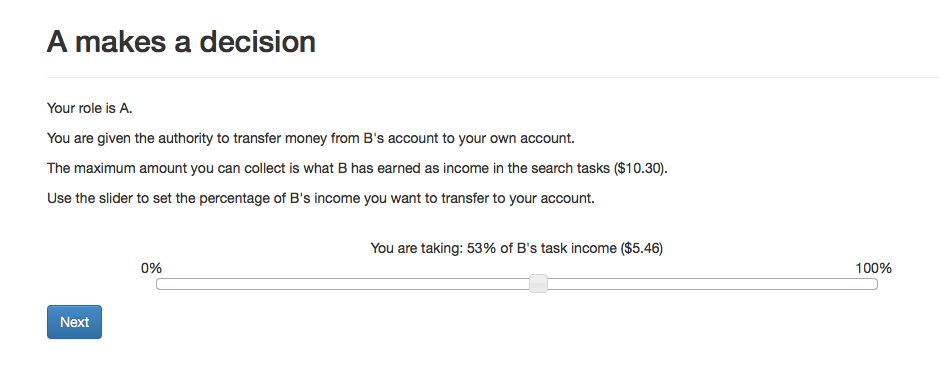
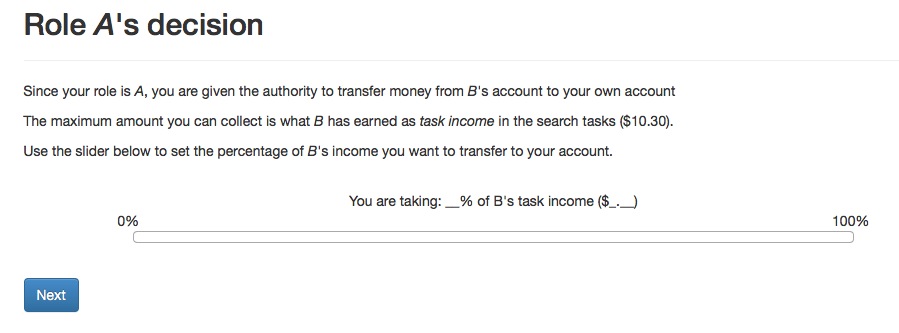
instructions

diff --git a/PTT_express_instructions/templates/PTT_express_instructions/Instructions.html b/PTT_express_instructions/templates/PTT_express_instructions/Instructions.html
@@ -7,6 +7,8 @@
 
 {% block content %}
 
+{####################################################################}
+
 {# Greetings - ALL #}
 
 <p> Welcome to the LEEPS Laboratory. During the course of this session, you will be asked to make a series of decisions. By participating in this study, you will earn real money that will be paid to you in cash at the end of the experiment. On top of what you will earn during the session, you will receive a participation fee of {{ participation_fee }}.</p>
@@ -163,17 +165,17 @@
     {% if value_type == 'WTP' %}
         <p><em> For player A = Endowment + task income + money taken from B's account.</em></p>
         <p> </p>
-        <p><em> For player B when  buys the right to send the message = Endowment + task income - money taken by player A - price of sending message.</em></p>
+        <p><em> For player B when message is sent = Endowment + task income - money taken by player A - price of sending message.</em></p>
         <p> </p>
-        <p><em> For player B when  does not buy the right to send the message = Endowment + task income - money taken by player A.</em></p>
+        <p><em> For player B when message is NOT sent  = Endowment + task income - money taken by player A.</em></p>
     {% endif %}
 
     {% if value_type == 'WTA' %}
         <p><em> For player A = Endowment + task income + money taken from B's account.</em></p>
         <p> </p>
-        <p><em> For player B when forgoes the right to send message = Endowment + task income - money taken by player A + compensation for NOT sending the message.</em></p>
+        <p><em> For player B when message is NOT sent = Endowment + task income - money taken by player A + compensation for NOT sending the message.</em></p>
         <p> </p>
-        <p><em> For player B when does not forgo the right to send the message = Endowment + task income - money taken by player A.</em></p>
+        <p><em> For player B when message is sent = Endowment + task income - money taken by player A.</em></p>
     {% endif %}
 
     {% if treatment == 'TP' %}

diff --git a/PTT_expression/templates/PTT_expression/ADecides.html b/PTT_expression/templates/PTT_expression/ADecides.html
@@ -2,7 +2,7 @@
 {% load staticfiles otree_tags %}
 
 {% block title %}
-    A makes a decision
+    Role A's decision </p>
 {% endblock %}
 
 {% block scripts %}
@@ -47,12 +47,13 @@
 
     {% formfield  group.time_ADecides with label=None  %}
 
-    <p> Your role is {{player.role}}. </p>
-    <p> You are given the authority to transfer money from B's account to your own account. </p>
-    <p> The maximum amount you can collect is what B has earned as income in the search tasks
-        ({{player.others_task_income}}). </p>
-    <p> Use the slider to set the percentage of B's income you want to transfer to your account. </p>
-    <br /> {# line break #}
+    <p> Since your role is <em>{{ player.role }}</em>, you are given the authority to transfer money from <em>B</em>'s account to your own account </p>
+
+    <p> The maximum amount you can collect is what <em>B</em> has earned as <em>task income</em> in the search tasks ({{player.others_task_income}}). </p>
+
+    <p> Use the slider below to set the percentage of <em>B</em>'s income you want to transfer to your account. </p>
+
+    <br/> {# line break #}
 
     <div style="width: 80%; margin: auto;">
         <div style="text-align: center">You are taking: <span id="slider_val">__</span>% of B's task income
@@ -62,6 +63,8 @@
     </div>
 
     {% formfield group.take_rate with label=None %}
+
+    <br/> {# line break #}
 
     {% next_button %}
 

diff --git a/PTT_expression/templates/PTT_expression/RolesIncome.html b/PTT_expression/templates/PTT_expression/RolesIncome.html
@@ -16,16 +16,16 @@
     {% formfield  group.time_RolesIncome with label=None  %}
 
     {% if group.treatment != 'TP-R' %}
-        <p> You have received {{player.endowment}} of endowment and earned {{player.task_income}} in the search tasks. </p>
+        <p> You received {{player.endowment}} of <em> endowment </em> and earned {{player.task_income}} as <em> task income </em>. </p>
 
-        <p> Your available income is {{player.available_income0}} </p>
+        <p> Your available income at this point is {{player.available_income0}}. </p>
 
-        <p> Your role is {{player.role}} </p>
+        <p> Your have been assigned <b>role {{player.role}}</b>. </p>
 
     {% elif group.treatment == 'TP-R' %}
-        <p> You have received {{player.endowment}} of endowment and earned {{player.task_income}} in the search tasks. </p>
+        <p> You received {{player.endowment}} of <em> endowment </em> and earned {{player.task_income}} as <em> task income </em>. </p>
 
-        <p> Your role is {{player.role}} (Reader). </p>
+        <p> Your have been assigned <b> role {{player.role}} </b> (Reader). </p>
 
     {% endif %}
 

diff --git a/PTT_expression/templates/PTT_expression/BPredicts.html b/PTT_expression/templates/PTT_expression/BPredicts.html
@@ -2,7 +2,7 @@
 {% load staticfiles otree_tags %}
 
 {% block title %}
-    B guesses
+    Role B's guess
 {% endblock %}
 
 {% block scripts %}
@@ -55,16 +55,19 @@
     <p> What percentage of your task income do you think A will transfer into his/her own account? </p>
     <p> Use the slider to provide your guess. </p>
     <p> </p>
-    <br />
+    <br/>
 
     <div style="width: 80%; margin: auto;">
         <div style="text-align: center">You guess A will take <span id="slider_val">__</span>% of your task income
             ($<span id="dollars_taken">_.__</span>)</div>
         <div><span class="pull-left">0%</span><span class="pull-right">100%</span></div>
         <div id="slider" style="clear: both; width: 96%; margin: auto;"></div>
+
     </div>
+    <br/>
 
     {% formfield  group.expected_take_rate with label=None %}
+
 
     {% next_button %}
 

diff --git a/settings.py b/settings.py
@@ -499,7 +499,7 @@ SESSION_CONFIGS = [
     },
     {
         'name': 'ptt_express_instructions',
-        'display_name': "Only ptt_express_instructions",
+        'display_name': "Only PTT Expression Instructions",
         'real_world_currency_per_point': 1,
         'num_demo_participants': 1,
         'app_sequence': ['PTT_express_instructions'],
